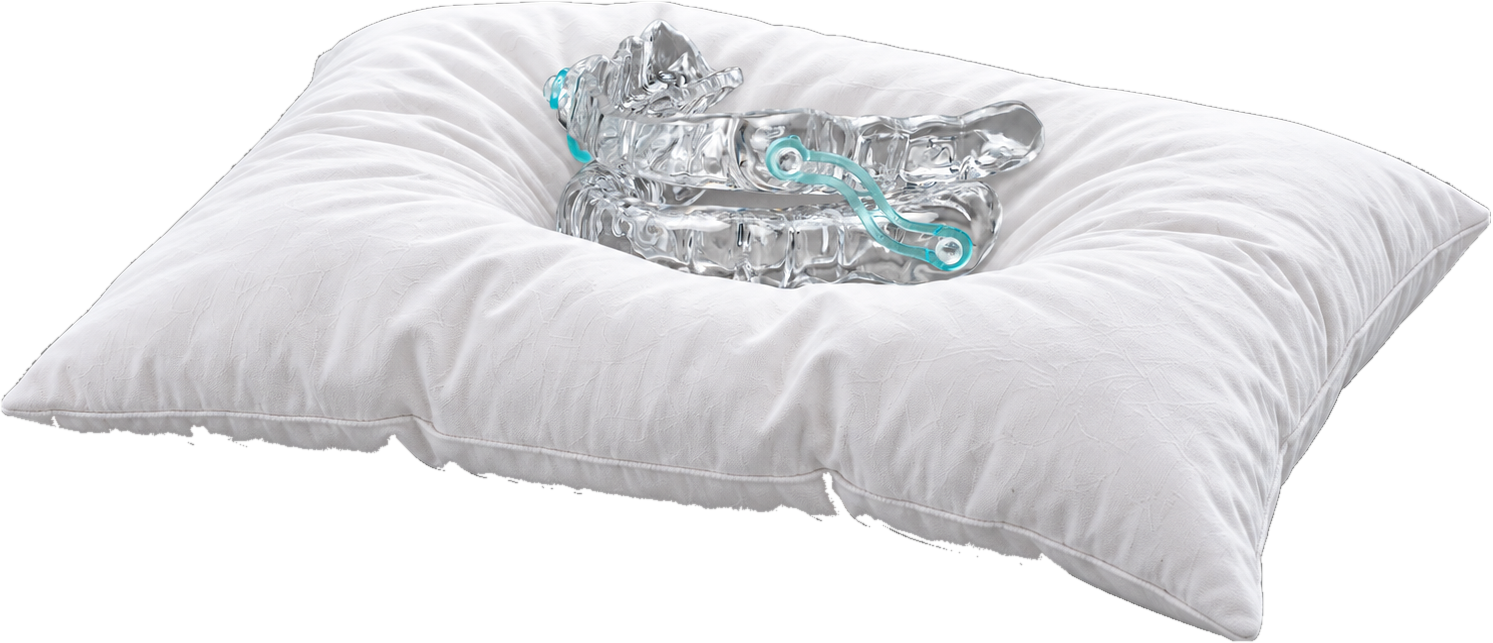
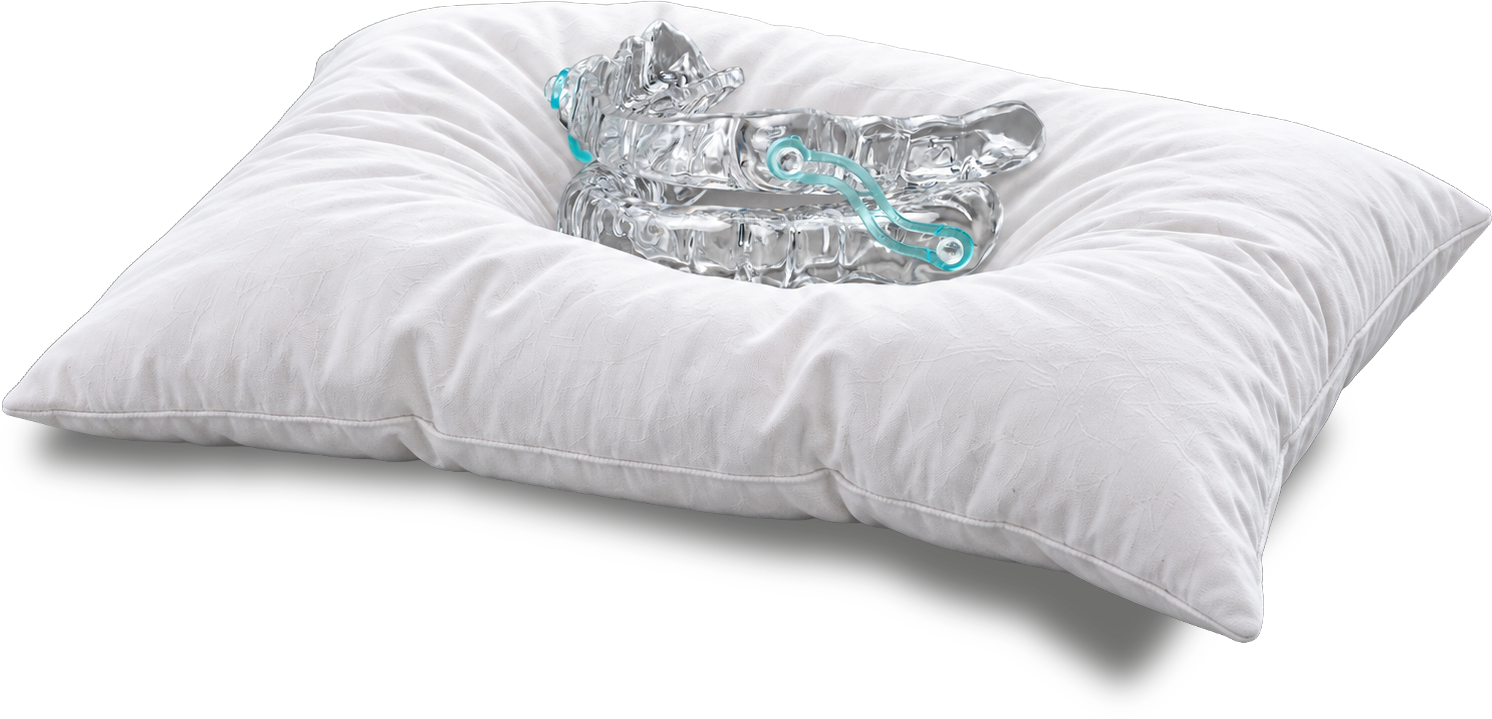
Expo: подушка 1996 — новый рендер Эльдара, со своей тенью.
Он перезалил pillow.png: файл уже с альфой, резать нечего — обрезал по альфе
(1492×719) и положил в assets. В новом рендере есть собственная мягкая тень, и
она уходит на 79 px спрайта ниже самой наволочки — это 27 единиц при ширине
520. Предмет висит нижним краем спрайта, поэтому drop 60 → 88: наволочка
осталась там, где Эльдар её принял, а тень легла на столешницу. noShadow
остаётся: своя тень у рендера теперь настоящая. ASSET_V → 20260928-pillow-v2.

Changed region(s): [[0.0, 0.0311, 1.0, 1.0], [0.8324, 0.1555, 0.8633, 0.1866], [0.1233, 0.2799, 0.1542, 0.311]]

diff --git a/expo/expo.html b/expo/expo.html
@@ -10110,7 +10110,7 @@ const PHOTO_TEX = {};
 /* the skin's files are re-cut under the same names as the room is tuned, so a
    browser that has already seen one keeps serving it back; every photo asset
    carries the build stamp and a new cut is fetched the moment it exists */
-const ASSET_V = '20260928-pillow';
+const ASSET_V = '20260928-pillow-v2';
 const vurl = p => p + (p.includes('?') ? '&' : '?') + 'v=' + ASSET_V;
 /* EVERY PHOTOGRAPH IS SERVED AS WEBP. The names below still say .png and .jpg
    because that is what the file in the studio is; on the wire it is the webp
@@ -10350,10 +10350,14 @@ function initDecor(){
      2017 (там 36 на z 70). Сперва поставил 24 по замеру зазора, но Эльдар
      (2026-09-28) сказал «слишком высоко» — 60: подушка садится в столешницу,
      как лежит мягкая вещь, а не стоит на ней ребром. noShadow: у рендера своя
-     тень, а зал рисовал под ним вторую — ту самую «тень одной линией». */
+     тень, а зал рисовал под ним вторую — ту самую «тень одной линией».
+     28 сентября Эльдар перезалил рендер: теперь в нём есть собственная мягкая
+     тень, и она уходит на 79 px спрайта (27 единиц при ширине 520) ниже самой
+     наволочки. Предмет висит НИЖНИМ КРАЕМ СПРАЙТА, поэтому drop 60 → 88:
+     наволочка остаётся там, где он её принял, а тень ложится на столешницу. */
   {
     const bsn = BEATS.find(b => b.t === 'SILENT NITE');
-    if (bsn) PROPS.push({x: bsn.x, z: 26, kind: 'ph_pillow', w: 520, drop: 60, noShadow: true, study: 'SILENT NITE'});
+    if (bsn) PROPS.push({x: bsn.x, z: 26, kind: 'ph_pillow', w: 520, drop: 88, noShadow: true, study: 'SILENT NITE'});
   }
 
   /* The welcome still life is gone: the film plays where the heirlooms stood.
